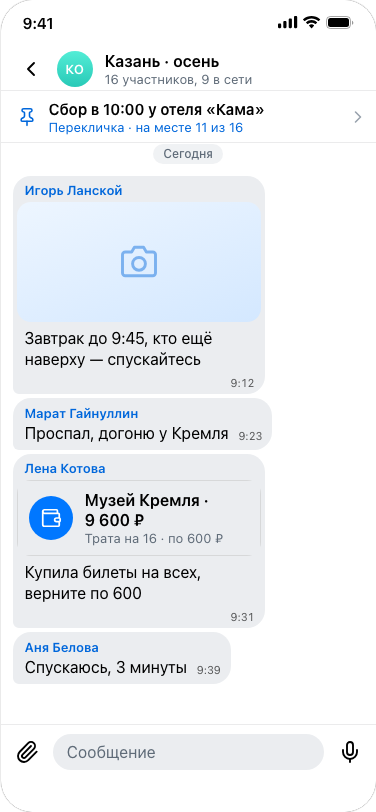
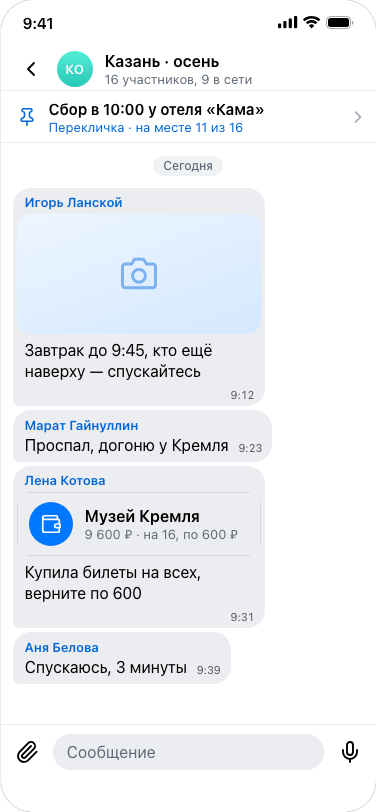
Сбор: поездки проще — без «Кто что везёт», расходы без фильтров

diff --git a/platform/concepts/sbor/screens/tripinfo.html b/platform/concepts/sbor/screens/tripinfo.html
@@ -1,1 +1,1 @@
-<div class="screen ui vk-light" id="scr-tripinfo"><header class="ui-nav"><button class="ui-icon-btn" data-back aria-label="Назад"><svg><use href="#i-chevron-left"/></svg></button><strong></strong><button class="ui-text-btn" data-toast="Открыт режим правки">Изменить</button></header><div class="ui-scroll"><div class="sb-head"><span class="ui-avatar is-large h4">КО</span><h1 class="ui-title">Казань · осень</h1><p class="ui-sub">9–11 октября · день 2 из 3 · 16 участников</p></div><section class="ui-sec"><div class="sb-acts"><button class="sb-act" data-back aria-label="Чат"><span><svg><use href="#i-message-circle"/></svg></span>Чат</button><button class="sb-act" data-go="rollcall" aria-label="Перекличка"><span><svg><use href="#i-list-checks"/></svg></span>Перекличка</button><button class="sb-act" data-go="program" aria-label="Программа"><span><svg><use href="#i-calendar-days"/></svg></span>Программа</button><button class="sb-act" data-go="album" aria-label="Альбом"><span><svg><use href="#i-images"/></svg></span>Альбом</button></div></section><section class="ui-sec"><div class="ui-group"><button class="ui-cell" data-go="rollcall"><svg><use href="#i-clock"/></svg><span class="ui-cell-text"><strong>Сбор в 10:00</strong><span>у отеля «Кама» · перенесён с 9:30</span></span><span class="ui-cell-end">11 из 16<svg><use href="#i-chevron-right"/></svg></span></button><button class="ui-cell" data-go="program"><svg><use href="#i-calendar-days"/></svg><span class="ui-cell-text"><strong>Программа</strong><span>Кремль в 10:30, катер в Свияжск в 15:00</span></span><span class="ui-cell-end">12 пунктов<svg><use href="#i-chevron-right"/></svg></span></button><button class="ui-cell" data-go="wifi"><svg><use href="#i-wifi"/></svg><span class="ui-cell-text"><strong>Wi‑Fi отеля</strong><span>отель «Кама» · добавил Игорь из QR</span></span><span class="ui-cell-end">Kama_Guest<svg><use href="#i-chevron-right"/></svg></span></button><button class="ui-cell" data-go="album"><svg><use href="#i-images"/></svg><span class="ui-cell-text"><strong>Альбом поездки</strong><span>Фильм пятницы готов, 3:42</span></span><span class="ui-cell-end">214 фото<svg><use href="#i-chevron-right"/></svg></span></button><button class="ui-cell" data-go="expenses"><svg><use href="#i-wallet"/></svg><span class="ui-cell-text"><strong>Расходы</strong><span>Вы должны Лене 1 240 ₽</span></span><span class="ui-cell-end">61 870 ₽<svg><use href="#i-chevron-right"/></svg></span></button><button class="ui-cell" data-go="pack"><svg><use href="#i-luggage"/></svg><span class="ui-cell-text"><strong>Кто что везёт</strong><span>Дождевики на вас</span></span><span class="ui-cell-end">3 из 6<svg><use href="#i-chevron-right"/></svg></span></button><button class="ui-cell" data-ask="faceid|docs|tripinfo"><svg><use href="#i-lock"/></svg><span class="ui-cell-text"><strong>Документы</strong><span>Брони, билеты, список группы</span></span><span class="ui-cell-end">7 файлов<svg><use href="#i-chevron-right"/></svg></span></button></div></section><section class="ui-sec"><div class="ui-group"><button class="ui-cell" data-ask="push|lockscreen|tripinfo"><svg><use href="#i-bell"/></svg><span class="ui-cell-text"><strong>Напоминать о сборах</strong><span>За 30 минут, с местом и временем</span></span><span class="ui-cell-end"><svg><use href="#i-chevron-right"/></svg></span></button><button class="ui-cell" data-activate="audio|lockscreen"><svg><use href="#i-headphones"/></svg><span class="ui-cell-text"><strong>Рассказы Рустама подряд</strong><span>6 голосовых · 23 минуты · Кремль, Свияжск, слобода</span></span><span class="ui-cell-end"><svg><use href="#i-chevron-right"/></svg></span></button><button class="ui-cell" data-go="invite"><svg><use href="#i-link"/></svg><span class="ui-cell-text"><strong>Ссылка-приглашение</strong><span>sbor.app/j/kzn-1009</span></span><span class="ui-cell-end">3 вступили<svg><use href="#i-chevron-right"/></svg></span></button></div></section><section class="ui-sec"><div class="ui-sec-head"><h2>Участники</h2><span class="ui-foot">16</span></div><div class="ui-list"><div class="ui-row"><span class="ui-avatar h2">НР</span><span class="ui-row-text"><strong>Ника Рябова</strong><span>создала поездку · номер 412</span></span></div><button class="ui-row" data-go="lena" aria-label="Лена Котова"><span class="ui-avatar h1">ЛК</span><span class="ui-row-text"><strong>Лена Котова</strong><span>номер 412 · в сети</span></span></button><div class="ui-row"><span class="ui-avatar h3">РХ</span><span class="ui-row-text"><strong>Рустам Хайруллин</strong><span>ведёт экскурсии · местный</span></span></div><div class="ui-row"><span class="ui-avatar h6">ИЛ</span><span class="ui-row-text"><strong>Игорь Ланской</strong><span>номер 408 · снимает фильм дня</span></span></div><button class="ui-row" data-go="chat" aria-label="Марат Гайнуллин"><span class="ui-avatar h2">МГ</span><span class="ui-row-text"><strong>Марат Гайнуллин</strong><span>номер 410 · был в 9:24</span></span></button><div class="ui-row"><span class="ui-avatar h2">ОП</span><span class="ui-row-text"><strong>Олег Пирогов</strong><span>номер 410 · в сети</span></span></div><button class="ui-row" data-go="rollcall" aria-label="Все 16 в перекличке"><span class="ui-lead is-round is-accent"><svg><use href="#i-list-checks"/></svg></span><span class="ui-row-text"><strong>Все 16 в перекличке</strong><span>Кто на месте к сбору и кто ещё в пути</span></span></button><button class="ui-row" data-go="contacts" aria-label="Добавить участника"><span class="ui-lead is-round is-accent"><svg><use href="#i-user-plus"/></svg></span><span class="ui-row-text"><strong>Добавить участника</strong><span>Из контактов или по ссылке</span></span></button></div></section></div><div class="home-ind"></div></div>
+<div class="screen ui vk-light" id="scr-tripinfo"><header class="ui-nav"><button class="ui-icon-btn" data-back aria-label="Назад"><svg><use href="#i-chevron-left"/></svg></button><strong></strong><button class="ui-text-btn" data-toast="Открыт режим правки">Изменить</button></header><div class="ui-scroll"><div class="sb-head"><span class="ui-avatar is-large h4">КО</span><h1 class="ui-title">Казань · осень</h1><p class="ui-sub">9–11 октября · день 2 из 3 · 16 участников</p></div><section class="ui-sec"><div class="sb-acts"><button class="sb-act" data-back aria-label="Чат"><span><svg><use href="#i-message-circle"/></svg></span>Чат</button><button class="sb-act" data-go="rollcall" aria-label="Перекличка"><span><svg><use href="#i-list-checks"/></svg></span>Перекличка</button><button class="sb-act" data-go="program" aria-label="Программа"><span><svg><use href="#i-calendar-days"/></svg></span>Программа</button><button class="sb-act" data-go="album" aria-label="Альбом"><span><svg><use href="#i-images"/></svg></span>Альбом</button></div></section><section class="ui-sec"><div class="ui-group"><button class="ui-cell" data-go="rollcall"><svg><use href="#i-clock"/></svg><span class="ui-cell-text"><strong>Сбор в 10:00</strong><span>у отеля «Кама» · перенесён с 9:30</span></span><span class="ui-cell-end">11 из 16<svg><use href="#i-chevron-right"/></svg></span></button><button class="ui-cell" data-go="program"><svg><use href="#i-calendar-days"/></svg><span class="ui-cell-text"><strong>Программа</strong><span>Кремль в 10:30, катер в Свияжск в 15:00</span></span><span class="ui-cell-end">12 пунктов<svg><use href="#i-chevron-right"/></svg></span></button><button class="ui-cell" data-go="wifi"><svg><use href="#i-wifi"/></svg><span class="ui-cell-text"><strong>Wi‑Fi отеля</strong><span>отель «Кама» · добавил Игорь из QR</span></span><span class="ui-cell-end">Kama_Guest<svg><use href="#i-chevron-right"/></svg></span></button><button class="ui-cell" data-go="album"><svg><use href="#i-images"/></svg><span class="ui-cell-text"><strong>Альбом поездки</strong><span>Фильм пятницы готов, 3:42</span></span><span class="ui-cell-end">214 фото<svg><use href="#i-chevron-right"/></svg></span></button><button class="ui-cell" data-go="expenses"><svg><use href="#i-wallet"/></svg><span class="ui-cell-text"><strong>Расходы</strong><span>Вы должны Лене 1 240 ₽</span></span><span class="ui-cell-end">61 870 ₽<svg><use href="#i-chevron-right"/></svg></span></button><button class="ui-cell" data-ask="faceid|docs|tripinfo"><svg><use href="#i-lock"/></svg><span class="ui-cell-text"><strong>Документы</strong><span>Брони, билеты, список группы</span></span><span class="ui-cell-end">7 файлов<svg><use href="#i-chevron-right"/></svg></span></button></div></section><section class="ui-sec"><div class="ui-group"><button class="ui-cell" data-ask="push|lockscreen|tripinfo"><svg><use href="#i-bell"/></svg><span class="ui-cell-text"><strong>Напоминать о сборах</strong><span>За 30 минут, с местом и временем</span></span><span class="ui-cell-end"><svg><use href="#i-chevron-right"/></svg></span></button><button class="ui-cell" data-activate="audio|lockscreen"><svg><use href="#i-headphones"/></svg><span class="ui-cell-text"><strong>Рассказы Рустама подряд</strong><span>6 голосовых · 23 минуты · Кремль, Свияжск, слобода</span></span><span class="ui-cell-end"><svg><use href="#i-chevron-right"/></svg></span></button><button class="ui-cell" data-go="invite"><svg><use href="#i-link"/></svg><span class="ui-cell-text"><strong>Ссылка-приглашение</strong><span>sbor.app/j/kzn-1009</span></span><span class="ui-cell-end">3 вступили<svg><use href="#i-chevron-right"/></svg></span></button></div></section><section class="ui-sec"><div class="ui-sec-head"><h2>Участники</h2><span class="ui-foot">16</span></div><div class="ui-list"><div class="ui-row"><span class="ui-avatar h2">НР</span><span class="ui-row-text"><strong>Ника Рябова</strong><span>создала поездку · номер 412</span></span></div><button class="ui-row" data-go="lena" aria-label="Лена Котова"><span class="ui-avatar h1">ЛК</span><span class="ui-row-text"><strong>Лена Котова</strong><span>номер 412 · в сети</span></span></button><div class="ui-row"><span class="ui-avatar h3">РХ</span><span class="ui-row-text"><strong>Рустам Хайруллин</strong><span>ведёт экскурсии · местный</span></span></div><div class="ui-row"><span class="ui-avatar h6">ИЛ</span><span class="ui-row-text"><strong>Игорь Ланской</strong><span>номер 408 · снимает фильм дня</span></span></div><button class="ui-row" data-go="chat" aria-label="Марат Гайнуллин"><span class="ui-avatar h2">МГ</span><span class="ui-row-text"><strong>Марат Гайнуллин</strong><span>номер 410 · был в 9:24</span></span></button><div class="ui-row"><span class="ui-avatar h2">ОП</span><span class="ui-row-text"><strong>Олег Пирогов</strong><span>номер 410 · в сети</span></span></div><button class="ui-row" data-go="rollcall" aria-label="Все 16 в перекличке"><span class="ui-lead is-round is-accent"><svg><use href="#i-list-checks"/></svg></span><span class="ui-row-text"><strong>Все 16 в перекличке</strong><span>Кто на месте к сбору и кто ещё в пути</span></span></button><button class="ui-row" data-go="contacts" aria-label="Добавить участника"><span class="ui-lead is-round is-accent"><svg><use href="#i-user-plus"/></svg></span><span class="ui-row-text"><strong>Добавить участника</strong><span>Из контактов или по ссылке</span></span></button></div></section></div><div class="home-ind"></div></div>

diff --git a/platform/concepts/sbor/screens/trips.html b/platform/concepts/sbor/screens/trips.html
@@ -1,1 +1,1 @@
-<div class="screen ui vk-light" id="scr-trips"><div class="ui-scroll is-root"><header class="ui-large"><h1>Поездки</h1><button class="ui-icon-btn" data-go="contacts" aria-label="Новая поездка"><svg><use href="#i-plus"/></svg></button></header><section class="ui-sec"><button class="sb-now" data-go="rollcall" data-primary aria-label="Сбор в 10:00: перекличка"><small>Казань · осень · день 2 из 3</small><strong>Сбор через 19 минут</strong><span>10:00 у отеля «Кама» · на месте 11 из 16</span><span class="sb-roll-bar" aria-hidden="true"><i class="is-on"></i><i class="is-on"></i><i class="is-on"></i><i class="is-on"></i><i class="is-on"></i><i class="is-on"></i><i class="is-on"></i><i class="is-on"></i><i class="is-on"></i><i class="is-on"></i><i class="is-on"></i><i></i><i></i><i></i><i></i><i></i></span></button><div class="sb-acts"><button class="sb-act" data-go="rollcall" aria-label="Перекличка"><span><svg><use href="#i-list-checks"/></svg></span>Перекличка</button><button class="sb-act" data-go="program" aria-label="Программа"><span><svg><use href="#i-calendar-days"/></svg></span>Программа</button><button class="sb-act" data-go="expenses" aria-label="Расходы"><span><svg><use href="#i-wallet"/></svg></span>Расходы</button><button class="sb-act" data-go="album" aria-label="Альбом"><span><svg><use href="#i-images"/></svg></span>Альбом</button></div></section><section class="ui-sec"><div class="ui-sec-head"><h2>Сегодня</h2><span class="ui-foot">суббота, 10 октября</span></div><div class="ui-list"><button class="ui-row is-now" data-go="rollcall" aria-label="Сбор у отеля"><span class="ui-lead">10:00</span><span class="ui-row-text"><strong>Сбор у отеля</strong><span>сейчас · перенесён с 9:30 · Ника, вчера в 23:48</span></span></button><div class="ui-row"><span class="ui-lead">10:30</span><span class="ui-row-text"><strong>Кремль и Кул-Шариф</strong><span>ведёт Рустам · вход через Спасскую башню</span></span></div><div class="ui-row"><span class="ui-lead">13:30</span><span class="ui-row-text"><strong>Обед на Петербургской</strong><span>по меню, около 900 ₽</span></span></div><div class="ui-row"><span class="ui-lead">15:00</span><span class="ui-row-text"><strong>Катер в Свияжск</strong><span>Речной порт, причал 3 · 16 билетов</span></span></div><div class="ui-row"><span class="ui-lead">20:00</span><span class="ui-row-text"><strong>Ужин и фото дня</strong><span>номер 412 у Ники</span></span></div></div></section><section class="ui-sec"><div class="ui-sec-head"><h2>В поездке</h2></div><div class="ui-list"><button class="ui-row" data-go="expenses" aria-label="Вы должны Лене 1 240 ₽"><span class="ui-lead is-round is-accent"><svg><use href="#i-wallet"/></svg></span><span class="ui-row-text"><strong>Вы должны Лене 1 240 ₽</strong><span>Всего 61 870 ₽ · по 3 867 ₽ с человека · вам должны двое</span></span></button><button class="ui-row" data-go="pack" aria-label="Кто что везёт · 3 из 6"><span class="ui-lead is-round is-accent"><svg><use href="#i-luggage"/></svg></span><span class="ui-row-text"><strong>Кто что везёт · 3 из 6</strong><span>Дождевики на вас · термосы никто не взял</span></span></button><button class="ui-row" data-go="wifi" aria-label="Wi‑Fi Kama_Guest"><span class="ui-lead is-round"><svg><use href="#i-wifi"/></svg></span><span class="ui-row-text"><strong>Wi‑Fi Kama_Guest</strong><span>подключились 12 из 16</span></span></button><button class="ui-row" data-go="docs" aria-label="Документы"><span class="ui-lead is-round"><svg><use href="#i-lock"/></svg></span><span class="ui-row-text"><strong>Документы</strong><span>Брони, билеты, список группы · 7 файлов</span></span></button></div></section><section class="ui-sec"><div class="ui-sec-head"><h2>Скоро</h2></div><div class="ui-list"><button class="ui-row" data-go="lena" aria-label="Псков · ноябрь"><span class="ui-avatar h1">ПН</span><span class="ui-row-text"><strong>Псков · ноябрь</strong><span>Лена собирает · даты выбирают опросом, ответили 7 из 9</span></span><span class="ui-row-end"><span class="ui-badge is-blue">через 27 дней</span></span></button></div></section><section class="ui-sec"><div class="ui-sec-head"><h2>Прошедшие</h2><span class="ui-foot">3</span></div><div class="ui-list"><div class="ui-row"><span class="ui-lead is-round"><svg><use href="#i-route"/></svg></span><span class="ui-row-text"><strong>Алтай · 14–24 августа</strong><span>11 человек · фильм поездки 12:40 · 1 312 фото</span></span></div><div class="ui-row"><span class="ui-lead is-round"><svg><use href="#i-route"/></svg></span><span class="ui-row-text"><strong>Калининград · 1–4 мая</strong><span>6 человек · фильм 5:18 · 402 фото</span></span></div><div class="ui-row"><span class="ui-lead is-round"><svg><use href="#i-route"/></svg></span><span class="ui-row-text"><strong>Выборг · 7–8 марта</strong><span>4 человека · 96 фото, фильм не собирали</span></span></div></div></section></div><nav class="ui-tabs tabbar" aria-label="Основная навигация"><div class="ui-tabrow"><button class="ui-tab tab" data-go="contacts"><svg><use href="#i-circle-user"/></svg><span>Контакты</span></button><button class="ui-tab tab" data-go="calls"><svg><use href="#i-phone"/></svg><span>Звонки</span></button><button class="ui-tab tab" data-go="chats"><svg><use href="#i-message-circle"/></svg><span>Чаты</span></button><button class="ui-tab tab is-on" aria-current="page" data-go="trips"><svg><use href="#i-route"/></svg><span>Поездки</span></button><button class="ui-tab tab" data-go="settings"><svg><use href="#i-settings"/></svg><span>Настройки</span></button></div></nav><div class="home-ind"></div></div>
+<div class="screen ui vk-light" id="scr-trips"><div class="ui-scroll is-root"><header class="ui-large"><h1>Поездки</h1><button class="ui-icon-btn" data-go="contacts" aria-label="Новая поездка"><svg><use href="#i-plus"/></svg></button></header><section class="ui-sec"><button class="sb-now" data-go="rollcall" data-primary aria-label="Сбор в 10:00: перекличка"><small>Казань · осень · день 2 из 3</small><strong>Сбор через 19 минут</strong><span>10:00 у отеля «Кама» · на месте 11 из 16</span><span class="sb-roll-bar" aria-hidden="true"><i class="is-on"></i><i class="is-on"></i><i class="is-on"></i><i class="is-on"></i><i class="is-on"></i><i class="is-on"></i><i class="is-on"></i><i class="is-on"></i><i class="is-on"></i><i class="is-on"></i><i class="is-on"></i><i></i><i></i><i></i><i></i><i></i></span></button></section><section class="ui-sec"><div class="ui-sec-head"><h2>Сегодня</h2><span class="ui-foot">суббота, 10 октября</span></div><div class="ui-list"><button class="ui-row is-now" data-go="rollcall" aria-label="Сбор у отеля"><span class="ui-lead">10:00</span><span class="ui-row-text"><strong>Сбор у отеля</strong><span>сейчас · перенесён с 9:30 · Ника, вчера в 23:48</span></span></button><div class="ui-row"><span class="ui-lead">10:30</span><span class="ui-row-text"><strong>Кремль и Кул-Шариф</strong><span>ведёт Рустам · вход через Спасскую башню</span></span></div><div class="ui-row"><span class="ui-lead">13:30</span><span class="ui-row-text"><strong>Обед на Петербургской</strong><span>по меню, около 900 ₽</span></span></div><div class="ui-row"><span class="ui-lead">15:00</span><span class="ui-row-text"><strong>Катер в Свияжск</strong><span>Речной порт, причал 3 · 16 билетов</span></span></div><div class="ui-row"><span class="ui-lead">20:00</span><span class="ui-row-text"><strong>Ужин и фото дня</strong><span>номер 412 у Ники</span></span></div></div></section><section class="ui-sec"><div class="ui-sec-head"><h2>Скоро</h2></div><div class="ui-list"><button class="ui-row" data-go="lena" aria-label="Псков · ноябрь"><span class="ui-avatar h1">ПН</span><span class="ui-row-text"><strong>Псков · ноябрь</strong><span>Лена собирает · даты выбирают опросом, ответили 7 из 9</span></span><span class="ui-row-end"><span class="ui-badge is-blue">через 27 дней</span></span></button></div></section><section class="ui-sec"><div class="ui-sec-head"><h2>Прошедшие</h2><span class="ui-foot">3</span></div><div class="ui-list"><div class="ui-row"><span class="ui-lead is-round"><svg><use href="#i-route"/></svg></span><span class="ui-row-text"><strong>Алтай · 14–24 августа</strong><span>11 человек · фильм поездки 12:40 · 1 312 фото</span></span></div><div class="ui-row"><span class="ui-lead is-round"><svg><use href="#i-route"/></svg></span><span class="ui-row-text"><strong>Калининград · 1–4 мая</strong><span>6 человек · фильм 5:18 · 402 фото</span></span></div><div class="ui-row"><span class="ui-lead is-round"><svg><use href="#i-route"/></svg></span><span class="ui-row-text"><strong>Выборг · 7–8 марта</strong><span>4 человека · 96 фото, фильм не собирали</span></span></div></div></section></div><nav class="ui-tabs tabbar" aria-label="Основная навигация"><div class="ui-tabrow"><button class="ui-tab tab" data-go="contacts"><svg><use href="#i-circle-user"/></svg><span>Контакты</span></button><button class="ui-tab tab" data-go="calls"><svg><use href="#i-phone"/></svg><span>Звонки</span></button><button class="ui-tab tab" data-go="chats"><svg><use href="#i-message-circle"/></svg><span>Чаты</span></button><button class="ui-tab tab is-on" aria-current="page" data-go="trips"><svg><use href="#i-route"/></svg><span>Поездки</span></button><button class="ui-tab tab" data-go="settings"><svg><use href="#i-settings"/></svg><span>Настройки</span></button></div></nav><div class="home-ind"></div></div>

diff --git a/platform/concepts/sbor/screens/trip.html b/platform/concepts/sbor/screens/trip.html
@@ -1,1 +1,1 @@
-<div class="screen ui vk-light" id="scr-trip"><header class="ui-nav ui-chat-nav"><button class="ui-icon-btn" data-back aria-label="Назад"><svg><use href="#i-chevron-left"/></svg></button><button class="ui-chat-who tap" data-go="tripinfo" aria-label="Сведения: Казань · осень"><span class="ui-chat-face is-initial h4">КО</span><span class="ui-chat-text"><strong>Казань · осень</strong><span>16 участников, 9 в сети</span></span></button><span></span></header><button class="sb-pin" data-go="rollcall" aria-label="Перекличка: сбор в 10:00"><svg><use href="#i-pin"/></svg><span><strong>Сбор в 10:00 у отеля «Кама»</strong><span>Перекличка · на месте 11 из 16</span></span><svg><use href="#i-chevron-right"/></svg></button><div class="ui-scroll"><div class="ui-chat"><div class="ui-bubble is-in has-attach"><span class="ui-bubble-from">Игорь Ланской</span><span class="ui-bubble-media"><button class="sb-net" data-go="wifi"><span class="sb-net-ico"><svg><use href="#i-wifi"/></svg></span><span><strong>Kama_Guest</strong><span>Wi‑Fi отеля из QR · вчера</span></span></button></span><span class="ui-bubble-meta">22:14</span></div><p class="sb-sys">Ника перенесла сбор: 9:30 → 10:00</p><p class="ui-day">Сегодня</p><div class="ui-bubble is-in has-attach"><span class="ui-bubble-from">Игорь Ланской</span><span class="ui-bubble-media"><span class="sb-photo ph"></span></span><span class="ui-bubble-text">Завтрак до 9:45, кто ещё наверху — спускайтесь</span><span class="ui-bubble-meta">9:12</span></div><div class="ui-bubble is-in"><span class="ui-bubble-from">Марат Гайнуллин</span><span class="ui-bubble-text">Проспал, догоню у Кремля</span><span class="ui-bubble-meta">9:23</span></div><div class="ui-bubble is-in has-attach"><span class="ui-bubble-from">Лена Котова</span><span class="ui-bubble-media"><button class="sb-net" data-go="expenses"><span class="sb-net-ico"><svg><use href="#i-wallet"/></svg></span><span><strong>Музей Кремля · 9 600 ₽</strong><span>Трата на 16 · по 600 ₽</span></span></button></span><span class="ui-bubble-text">Купила билеты на всех, верните по 600</span><span class="ui-bubble-meta">9:31</span></div><div class="ui-bubble is-in"><span class="ui-bubble-from">Аня Белова</span><span class="ui-bubble-text">Спускаюсь, 3 минуты</span><span class="ui-bubble-meta">9:39</span></div><div class="sb-shared perm-hidden" data-show-granted="shareext"><div class="ui-bubble is-out has-attach"><span class="ui-bubble-media"><span class="sb-place"><span class="sb-place-ico"><svg><use href="#i-utensils"/></svg></span><span><strong>Тюбетей</strong><span>Баумана, 64 · татарская кухня · до 23:00</span></span></span></span><span class="ui-bubble-text">На обед сюда?</span><span class="ui-bubble-meta">9:41<svg><use href="#i-check"/></svg></span></div></div></div></div><div class="perm-hidden ui-denied" data-show-denied="photos"><svg><use href="#i-images"/></svg><strong>Нет доступа к фото</strong><span>Разрешите доступ в Настройках</span><button class="ui-denied-btn" data-toast="Откроются Настройки iOS">Открыть Настройки</button></div><div class="perm-hidden ui-denied" data-show-denied="mic"><svg><use href="#i-mic"/></svg><strong>Нет доступа к микрофону</strong><span>Разрешите доступ в Настройках</span><button class="ui-denied-btn" data-toast="Откроются Настройки iOS">Открыть Настройки</button></div><div class="ui-composer has-mic"><button class="ui-icon-btn" data-ask="photos|attach|trip" aria-label="Вложение"><svg><use href="#i-paperclip"/></svg></button><input class="ui-composer-field" placeholder="Сообщение" aria-label="Сообщение"/><span class="ui-composer-mic"><button class="ui-icon-btn" data-ask="mic|record|trip" aria-label="Записать голосовое"><svg><use href="#i-mic"/></svg></button></span><span class="ui-composer-send"><button class="ui-icon-btn" data-toast="Отправлено" aria-label="Отправить"><svg><use href="#i-send"/></svg></button></span></div><div class="home-ind"></div></div>
+<div class="screen ui vk-light" id="scr-trip"><header class="ui-nav ui-chat-nav"><button class="ui-icon-btn" data-back aria-label="Назад"><svg><use href="#i-chevron-left"/></svg></button><button class="ui-chat-who tap" data-go="tripinfo" aria-label="Сведения: Казань · осень"><span class="ui-chat-face is-initial h4">КО</span><span class="ui-chat-text"><strong>Казань · осень</strong><span>16 участников, 9 в сети</span></span></button><span></span></header><button class="sb-pin" data-go="rollcall" aria-label="Перекличка: сбор в 10:00"><svg><use href="#i-pin"/></svg><span><strong>Сбор в 10:00 у отеля «Кама»</strong><span>Перекличка · на месте 11 из 16</span></span><svg><use href="#i-chevron-right"/></svg></button><div class="ui-scroll"><div class="ui-chat"><div class="ui-bubble is-in has-attach"><span class="ui-bubble-from">Игорь Ланской</span><span class="ui-bubble-media"><button class="sb-net" data-go="wifi"><span class="sb-net-ico"><svg><use href="#i-wifi"/></svg></span><span><strong>Kama_Guest</strong><span>Wi‑Fi отеля из QR · вчера</span></span></button></span><span class="ui-bubble-meta">22:14</span></div><p class="sb-sys">Ника перенесла сбор: 9:30 → 10:00</p><p class="ui-day">Сегодня</p><div class="ui-bubble is-in has-attach"><span class="ui-bubble-from">Игорь Ланской</span><span class="ui-bubble-media"><span class="sb-photo ph"></span></span><span class="ui-bubble-text">Завтрак до 9:45, кто ещё наверху — спускайтесь</span><span class="ui-bubble-meta">9:12</span></div><div class="ui-bubble is-in"><span class="ui-bubble-from">Марат Гайнуллин</span><span class="ui-bubble-text">Проспал, догоню у Кремля</span><span class="ui-bubble-meta">9:23</span></div><div class="ui-bubble is-in has-attach"><span class="ui-bubble-from">Лена Котова</span><span class="ui-bubble-media"><button class="sb-net" data-go="expenses"><span class="sb-net-ico"><svg><use href="#i-wallet"/></svg></span><span><strong>Музей Кремля</strong><span>9 600 ₽ · на 16, по 600 ₽</span></span></button></span><span class="ui-bubble-text">Купила билеты на всех, верните по 600</span><span class="ui-bubble-meta">9:31</span></div><div class="ui-bubble is-in"><span class="ui-bubble-from">Аня Белова</span><span class="ui-bubble-text">Спускаюсь, 3 минуты</span><span class="ui-bubble-meta">9:39</span></div><div class="sb-shared perm-hidden" data-show-granted="shareext"><div class="ui-bubble is-out has-attach"><span class="ui-bubble-media"><span class="sb-place"><span class="sb-place-ico"><svg><use href="#i-utensils"/></svg></span><span><strong>Тюбетей</strong><span>Баумана, 64 · татарская кухня · до 23:00</span></span></span></span><span class="ui-bubble-text">На обед сюда?</span><span class="ui-bubble-meta">9:41<svg><use href="#i-check"/></svg></span></div></div></div></div><div class="perm-hidden ui-denied" data-show-denied="photos"><svg><use href="#i-images"/></svg><strong>Нет доступа к фото</strong><span>Разрешите доступ в Настройках</span><button class="ui-denied-btn" data-toast="Откроются Настройки iOS">Открыть Настройки</button></div><div class="perm-hidden ui-denied" data-show-denied="mic"><svg><use href="#i-mic"/></svg><strong>Нет доступа к микрофону</strong><span>Разрешите доступ в Настройках</span><button class="ui-denied-btn" data-toast="Откроются Настройки iOS">Открыть Настройки</button></div><div class="ui-composer has-mic"><button class="ui-icon-btn" data-ask="photos|attach|trip" aria-label="Вложение"><svg><use href="#i-paperclip"/></svg></button><input class="ui-composer-field" placeholder="Сообщение" aria-label="Сообщение"/><span class="ui-composer-mic"><button class="ui-icon-btn" data-ask="mic|record|trip" aria-label="Записать голосовое"><svg><use href="#i-mic"/></svg></button></span><span class="ui-composer-send"><button class="ui-icon-btn" data-toast="Отправлено" aria-label="Отправить"><svg><use href="#i-send"/></svg></button></span></div><div class="home-ind"></div></div>

diff --git a/platform/concepts/sbor/screens/expenses.html b/platform/concepts/sbor/screens/expenses.html
@@ -1,1 +1,1 @@
-<div class="screen ui vk-light" id="scr-expenses"><header class="ui-nav"><button class="ui-icon-btn" data-back aria-label="Назад"><svg><use href="#i-chevron-left"/></svg></button><strong>Расходы</strong><button class="ui-icon-btn" data-menu="Снять чек>camera|Вручную=Новая трата: сумма, кто платил, на кого" aria-label="Добавить трату"><svg><use href="#i-plus"/></svg></button></header><div class="ui-scroll"><section class="ui-sec"><div class="sb-money"><small>Казань · осень · 11 чеков</small><strong>61 870 ₽</strong><span>по 3 867 ₽ с человека · делим на 16</span></div></section><section class="ui-sec"><div class="ui-sec-head"><h2>Вы должны</h2></div><div class="ui-list"><div class="ui-row" data-primary><span class="ui-avatar h1">ЛК</span><span class="ui-row-text"><strong>Лене · 1 240 ₽</strong><span>музей и такси</span></span><button class="ui-row-end is-value is-action" data-toast="Отмечено: вы вернули Лене 1 240 ₽" aria-label="Рассчитаться: Лене">Рассчитаться</button></div></div></section><section class="ui-sec"><div class="ui-sec-head"><h2>Вам должны</h2></div><div class="ui-list"><div class="ui-row"><span class="ui-avatar h2">МГ</span><span class="ui-row-text"><strong>Марат · 610 ₽</strong><span>за катер</span></span><button class="ui-row-end is-value is-action" data-toast="Марат получит напоминание в личном чате" aria-label="Напомнить: Марат">Напомнить</button></div><div class="ui-row"><span class="ui-avatar h5">СП</span><span class="ui-row-text"><strong>Света · 420 ₽</strong><span>за ужин в пятницу</span></span><button class="ui-row-end is-value is-action" data-toast="Света получит напоминание в личном чате" aria-label="Напомнить: Света">Напомнить</button></div></div></section><section class="ui-sec"><div class="ui-seg"><button class="is-on" aria-pressed="true" data-filter="all">Все</button><button aria-pressed="false" data-filter="transport">Дорога</button><button aria-pressed="false" data-filter="food">Еда</button><button aria-pressed="false" data-filter="other">Прочее</button></div></section><section class="ui-sec"><div class="ui-sec-head"><h2>Траты</h2><span class="ui-foot">6</span></div><div class="ui-list"><div class="ui-row" data-tags="transport"><span class="ui-lead is-round"><svg><use href="#i-ship"/></svg></span><span class="ui-row-text"><strong>Катер в Свияжск · 22 400 ₽</strong><span>платил Рустам · на 16 · вчера</span></span></div><div class="ui-row" data-tags="other"><span class="ui-lead is-round"><svg><use href="#i-landmark"/></svg></span><span class="ui-row-text"><strong>Музей Кремля · 9 600 ₽</strong><span>платила Лена · на 16 · сегодня</span></span></div><div class="ui-row" data-tags="food"><span class="ui-lead is-round"><svg><use href="#i-utensils"/></svg></span><span class="ui-row-text"><strong>Ужин «Чак-чак у Гузель» · 4 800 ₽</strong><span>платил Ника · предоплата · на 16</span></span></div><div class="ui-row" data-tags="transport"><span class="ui-lead is-round"><svg><use href="#i-car"/></svg></span><span class="ui-row-text"><strong>Такси с вокзала · 2 140 ₽</strong><span>платил Олег · на 8 · две машины</span></span></div><div class="ui-row" data-tags="food"><span class="ui-lead is-round"><svg><use href="#i-utensils"/></svg></span><span class="ui-row-text"><strong>Перекус на Баумана · 1 380 ₽</strong><span>платил Игорь · на 6 · чек снят</span></span></div><div class="ui-row" data-tags="other"><span class="ui-lead is-round"><svg><use href="#i-bed"/></svg></span><span class="ui-row-text"><strong>Доплата за номер 412 · 1 900 ₽</strong><span>платил Ника · на 2 · поздний выезд</span></span></div></div></section></div><div class="home-ind"></div></div>
+<div class="screen ui vk-light" id="scr-expenses"><header class="ui-nav"><button class="ui-icon-btn" data-back aria-label="Назад"><svg><use href="#i-chevron-left"/></svg></button><strong>Расходы</strong><button class="ui-icon-btn" data-menu="Снять чек>camera|Вручную=Новая трата: сумма, кто платил, на кого" aria-label="Добавить трату"><svg><use href="#i-plus"/></svg></button></header><div class="ui-scroll"><section class="ui-sec"><div class="sb-money"><small>Казань · осень · 11 чеков</small><strong>61 870 ₽</strong><span>по 3 867 ₽ с человека · делим на 16</span></div></section><section class="ui-sec"><div class="ui-sec-head"><h2>Вы должны</h2></div><div class="ui-list"><div class="ui-row" data-primary><span class="ui-avatar h1">ЛК</span><span class="ui-row-text"><strong>Лене · 1 240 ₽</strong><span>музей и такси</span></span><button class="ui-row-end is-value is-action" data-toast="Отмечено: вы вернули Лене 1 240 ₽" aria-label="Рассчитаться: Лене">Рассчитаться</button></div></div></section><section class="ui-sec"><div class="ui-sec-head"><h2>Траты</h2><span class="ui-foot">6</span></div><div class="ui-list"><div class="ui-row"><span class="ui-lead is-round"><svg><use href="#i-ship"/></svg></span><span class="ui-row-text"><strong>Катер в Свияжск · 22 400 ₽</strong><span>платил Рустам · на 16 · вчера</span></span></div><div class="ui-row"><span class="ui-lead is-round"><svg><use href="#i-landmark"/></svg></span><span class="ui-row-text"><strong>Музей Кремля · 9 600 ₽</strong><span>платила Лена · на 16 · сегодня</span></span></div><div class="ui-row"><span class="ui-lead is-round"><svg><use href="#i-utensils"/></svg></span><span class="ui-row-text"><strong>Ужин «Чак-чак у Гузель» · 4 800 ₽</strong><span>платил Ника · предоплата · на 16</span></span></div><div class="ui-row"><span class="ui-lead is-round"><svg><use href="#i-car"/></svg></span><span class="ui-row-text"><strong>Такси с вокзала · 2 140 ₽</strong><span>платил Олег · на 8 · две машины</span></span></div><div class="ui-row"><span class="ui-lead is-round"><svg><use href="#i-utensils"/></svg></span><span class="ui-row-text"><strong>Перекус на Баумана · 1 380 ₽</strong><span>платил Игорь · на 6 · чек снят</span></span></div><div class="ui-row"><span class="ui-lead is-round"><svg><use href="#i-bed"/></svg></span><span class="ui-row-text"><strong>Доплата за номер 412 · 1 900 ₽</strong><span>платил Ника · на 2 · поздний выезд</span></span></div></div></section></div><div class="home-ind"></div></div>

diff --git a/platform/concepts/sbor/styles.css b/platform/concepts/sbor/styles.css
@@ -251,7 +251,6 @@
 .sb-now .sb-roll-bar { margin-top:8px; }
 .sb-now .sb-roll-bar i { background:rgba(255,255,255,.32); }
 .sb-now .sb-roll-bar i.is-on { background:#fff; }
-.sb-now + .sb-acts { margin-top:12px; }
 /* Сводка кошелька поездки */
 .sb-money { display:flex; flex-direction:column; gap:2px; padding:0 16px; }
 .sb-money small { font:400 13px/16px var(--ui-face); color:var(--ui-text-2); }

diff --git a/platform/concepts/sbor/docs/02-architecture.md b/platform/concepts/sbor/docs/02-architecture.md
@@ -64,12 +64,12 @@
 Чаты (chats) — tab (root) · открывается: «Продолжить без аккаунта», «Войти» …, «Подбирать по интересам» (tracking) · fetch
     ├─ Чат поездки (trip) — push · открывается: «Диалог: Казань · осень», «Диалог: Алтай · август» …, «Отправить 2», «Отправить сеть Kama_Guest в чат» …, «Отправить в «Сбор»: Казань · осень» (shareext) … · photos, mic
     │   ├─ Сведения о поездке (tripinfo) — push · открывается: «Сведения: Казань · осень» · push, faceid, audio
-    │   │   ├─ Перекличка (rollcall) — push · открывается: «Сбор в 10:00: перекличка», «Перекличка» … · remotenotif, wifiinfo
-    │   │   ├─ Wi‑Fi отеля (wifi) — push · открывается: «Wi‑Fi Kama_Guest», «Kama_Guest» … · hotspot
+    │   │   ├─ Перекличка (rollcall) — push · открывается: «Сбор в 10:00: перекличка», «Сбор у отеля» … · remotenotif, wifiinfo
+    │   │   ├─ Wi‑Fi отеля (wifi) — push · открывается: «Kama_Guest», «Wi‑Fi отеля» · hotspot
     │   │   ├─ Программа (program) — push · открывается: «Программа» · calendar
     │   │   │   └─ «Поделиться» в Картах (share) — системная поверхность · открывается: «Место из Карт» · shareext
     │   │   ├─ Альбом поездки (album) — push · открывается: «Альбом», «Альбом поездки» · bgtask, processing
-    │   │   ├─ Документы (docs) — push · открывается: «Документы», «Документы» (faceid)
+    │   │   ├─ Документы (docs) — push · открывается: «Документы» (faceid)
     │   │   ├─ Ссылка-приглашение (invite) — push · открывается: «Ссылка-приглашение», «Пригласить ссылкой» …
     │   │   │   └─ Сообщения iOS (sms) — системная поверхность · открывается: «Отправить в Сообщения» · associateddomains
     │   │   │       └─ Приглашение (join) — modal · открывается: «Открыть ссылку sbor.app/j/kzn-1009» (associateddomains)
@@ -85,8 +85,7 @@
     └─ Реклама (ads) — modal · открывается: «Диалог: Катер до Свияжска», «Реклама» · tracking
 
 Поездки (trips) — tab (root) · открывается: вкладка таб-бара
-    ├─ Кто что везёт (pack) — push · открывается: «Кто что везёт · 3 из 6», «Кто что везёт»
-    └─ Расходы (expenses) — push · открывается: «Расходы», «Вы должны Лене 1 240 ₽» …
+    └─ Расходы (expenses) — push · открывается: «Музей Кремля», «Расходы»
 
 Звонки (calls) — tab (root) · открывается: «Недавние звонки»
 
@@ -119,7 +118,6 @@
 | `program` | Программа | push | calendar |
 | `album` | Альбом поездки | push | bgtask (activate), processing (activate) |
 | `docs` | Документы | push | — |
-| `pack` | Кто что везёт | push | — |
 | `expenses` | Расходы | push | — |
 | `invite` | Ссылка-приглашение | push | — |
 | `sms` | Сообщения iOS | системная поверхность | associateddomains (activate) |
@@ -166,13 +164,7 @@
 | `chats` | «Диалог: Избранное» | `saved` | — | переход |
 | `chats` | «Диалог: Катер до Свияжска» | `ads` | — | переход |
 | `trips` | «Новая поездка» | `contacts` | — | переход |
-| `trips` | «Сбор в 10:00: перекличка», «Перекличка» … | `rollcall` | — | переход |
-| `trips` | «Программа» | `program` | — | переход |
-| `trips` | «Расходы», «Вы должны Лене 1 240 ₽» | `expenses` | — | переход |
-| `trips` | «Альбом» | `album` | — | переход |
-| `trips` | «Кто что везёт · 3 из 6» | `pack` | — | переход |
-| `trips` | «Wi‑Fi Kama_Guest» | `wifi` | — | переход |
-| `trips` | «Документы» | `docs` | — | переход |
+| `trips` | «Сбор в 10:00: перекличка», «Сбор у отеля» | `rollcall` | — | переход |
 | `trips` | «Псков · ноябрь» | `lena` | — | переход |
 | `calls` | «Новый звонок» | `contacts` | — | переход |
 | `calls` | «Марат Гайнуллин», «Рустам Хайруллин» | `chat` | — | переход |
@@ -190,7 +182,7 @@
 | `trip` | «Сведения: Казань · осень» | `tripinfo` | — | переход |
 | `trip` | «Перекличка: сбор в 10:00» | `rollcall` | — | переход |
 | `trip` | «Kama_Guest» | `wifi` | — | переход |
-| `trip` | «Музей Кремля · 9 600 ₽» | `expenses` | — | переход |
+| `trip` | «Музей Кремля» | `expenses` | — | переход |
 | `trip` | «Вложение» | `attach` | `NSPhotoLibraryUsageDescription` | доступ разрешён |
 | `trip` | «Вложение» | `trip` | `NSPhotoLibraryUsageDescription` | отказ → fallback |
 | `trip` | «Записать голосовое» | `record` | `NSMicrophoneUsageDescription` | доступ разрешён |
@@ -201,7 +193,6 @@
 | `tripinfo` | «Альбом», «Альбом поездки» | `album` | — | переход |
 | `tripinfo` | «Wi‑Fi отеля» | `wifi` | — | переход |
 | `tripinfo` | «Расходы» | `expenses` | — | переход |
-| `tripinfo` | «Кто что везёт» | `pack` | — | переход |
 | `tripinfo` | «Документы» | `docs` | `NSFaceIDUsageDescription` | доступ разрешён |
 | `tripinfo` | «Документы» | `tripinfo` | `NSFaceIDUsageDescription` | отказ → fallback |
 | `tripinfo` | «Напоминать о сборах» | `lockscreen` | `aps-environment` | доступ разрешён |
@@ -226,7 +217,6 @@
 | `album` | «Собрать фильм субботы ночью» | `album` | `UIBackgroundModes: processing` | entitlement, без alert |
 | `docs` | «Назад» | `tripinfo` | — | возврат по IA |
 | `docs` | «Сканировать камерой» | `camera` | — | переход |
-| `pack` | «Назад» | `trips` | — | возврат по IA |
 | `expenses` | «Назад» | `trips` | — | возврат по IA |
 | `expenses` | «Снять чек» | `camera` | — | переход |
 | `invite` | «Назад» | `tripinfo` | — | возврат по IA |
@@ -319,15 +309,7 @@
 | `chats` | Настройки | вкладка | переключает вкладку таб-бара | Настройки (settings) | — | — |
 | `trips` | Новая поездка | элемент экрана | открывает экран | Контакты (contacts) | — | — |
 | `trips` | Сбор в 10:00: перекличка | элемент экрана | открывает экран | Перекличка (rollcall) | — | — |
-| `trips` | Перекличка | элемент экрана | открывает экран | Перекличка (rollcall) | — | — |
-| `trips` | Программа | элемент экрана | открывает экран | Программа (program) | — | — |
-| `trips` | Расходы | элемент экрана | открывает экран | Расходы (expenses) | — | — |
-| `trips` | Альбом | элемент экрана | открывает экран | Альбом поездки (album) | — | — |
 | `trips` | Сбор у отеля | элемент экрана | открывает экран | Перекличка (rollcall) | — | — |
-| `trips` | Вы должны Лене 1 240 ₽ | элемент экрана | открывает экран | Расходы (expenses) | — | — |
-| `trips` | Кто что везёт · 3 из 6 | элемент экрана | открывает экран | Кто что везёт (pack) | — | — |
-| `trips` | Wi‑Fi Kama_Guest | элемент экрана | открывает экран | Wi‑Fi отеля (wifi) | — | — |
-| `trips` | Документы | элемент экрана | открывает экран | Документы (docs) | — | — |
 | `trips` | Псков · ноябрь | элемент экрана | открывает экран | Чат с Леной (lena) | — | — |
 | `trips` | Контакты | вкладка | переключает вкладку таб-бара | Контакты (contacts) | — | — |
 | `trips` | Звонки | вкладка | переключает вкладку таб-бара | Звонки (calls) | — | — |
@@ -373,7 +355,7 @@
 | `trip` | Сведения: Казань · осень | элемент экрана | открывает экран | Сведения о поездке (tripinfo) | — | — |
 | `trip` | Перекличка: сбор в 10:00 | элемент экрана | открывает экран | Перекличка (rollcall) | — | — |
 | `trip` | Kama_Guest | элемент экрана | открывает экран | Wi‑Fi отеля (wifi) | — | — |
-| `trip` | Музей Кремля · 9 600 ₽ | элемент экрана | открывает экран | Расходы (expenses) | — | — |
+| `trip` | Музей Кремля | элемент экрана | открывает экран | Расходы (expenses) | — | — |
 | `trip` | Открыть Настройки | элемент экрана | показывает подтверждение «Откроются Настройки iOS» | остаётся на экране | — | — |
 | `trip` | Открыть Настройки | элемент экрана | показывает подтверждение «Откроются Настройки iOS» | остаётся на экране | — | — |
 | `trip` | Вложение | элемент экрана | спрашивает доступ photos | Вложение (attach) | Чат поездки (trip) | `NSPhotoLibraryUsageDescription` |
@@ -390,7 +372,6 @@
 | `tripinfo` | Wi‑Fi отеля | элемент экрана | открывает экран | Wi‑Fi отеля (wifi) | — | — |
 | `tripinfo` | Альбом поездки | элемент экрана | открывает экран | Альбом поездки (album) | — | — |
 | `tripinfo` | Расходы | элемент экрана | открывает экран | Расходы (expenses) | — | — |
-| `tripinfo` | Кто что везёт | элемент экрана | открывает экран | Кто что везёт (pack) | — | — |
 | `tripinfo` | Документы | элемент экрана | спрашивает доступ faceid | Документы (docs) | Сведения о поездке (tripinfo) | `NSFaceIDUsageDescription` |
 | `tripinfo` | Напоминать о сборах | элемент экрана | спрашивает доступ push | Экран блокировки (lockscreen) | Сведения о поездке (tripinfo) | `aps-environment` |
 | `tripinfo` | Рассказы Рустама подряд | элемент экрана | включает entitlement audio, системного alert нет | Экран блокировки (lockscreen) | — | `UIBackgroundModes: audio` |
@@ -444,14 +425,9 @@
 | `docs` | Катер в Свияжск | элемент экрана | показывает подтверждение «Катер в Свияжск открыт» | остаётся на экране | — | — |
 | `docs` | Паспорт Ники — скан | элемент экрана | показывает подтверждение «Паспорт Ники — скан открыт» | остаётся на экране | — | — |
 | `docs` | Чеки поездки | элемент экрана | показывает подтверждение «Чеки поездки открыт» | остаётся на экране | — | — |
-| `pack` | Назад | кнопка «назад» | возвращает к родительскому экрану | Поездки (trips) | — | — |
-| `pack` | Добавить вещь | элемент экрана | показывает подтверждение «Новая вещь в списке» | остаётся на экране | — | — |
-| `pack` | Взять: Термосы × 2 | элемент экрана | показывает подтверждение «Термосы теперь на вас» | остаётся на экране | — | — |
 | `expenses` | Назад | кнопка «назад» | возвращает к родительскому экрану | Поездки (trips) | — | — |
 | `expenses` | Добавить трату | элемент экрана | открывает лист действий: Снять чек · Вручную=Новая трата: сумма, кто платил, на кого | Камера (camera) | — | — |
 | `expenses` | Рассчитаться: Лене | элемент экрана | показывает подтверждение «Отмечено: вы вернули Лене 1 240 ₽» | остаётся на экране | — | — |
-| `expenses` | Напомнить: Марат | элемент экрана | показывает подтверждение «Марат получит напоминание в личном чате» | остаётся на экране | — | — |
-| `expenses` | Напомнить: Света | элемент экрана | показывает подтверждение «Света получит напоминание в личном чате» | остаётся на экране | — | — |
 | `invite` | Назад | кнопка «назад» | возвращает к родительскому экрану | Сведения о поездке (tripinfo) | — | — |
 | `invite` | Отправить в Сообщения | элемент экрана | открывает экран | Сообщения iOS (sms) | — | — |
 | `invite` | Скопировать ссылку | элемент экрана | показывает подтверждение «Ссылка скопирована» | остаётся на экране | — | — |

diff --git a/platform/concepts/sbor/docs/03-design-system.md b/platform/concepts/sbor/docs/03-design-system.md
@@ -29,7 +29,7 @@
 ## Компоненты ядра
 
 <!-- @generated:kernel-components -->
-Экраны собраны из компонентов `kernel/components.mjs`: `row` ×85, `section` ×71, `avatar` ×52, `list` ×37, `leadIcon` ×37, `cell` ×33, `bubble` ×27, `nav` ×15, `iconButton` ×12, `button` ×11, `group` ×10, `day` ×9, `dialog` ×9, `actions` ×8, `denied` ×5, `tabBar` ×5, `chatNav` ×5, `chat` ×5, `segments` ×4, `largeTitle` ×4, `composer` ×4, `search` ×3, `hue` ×3, `textButton` ×2, `voice` ×2, `callView` ×1, `chips` ×1, `usersStack` ×1, `miniInfo` ×1, `top` ×1.
+Экраны собраны из компонентов `kernel/components.mjs`: `row` ×77, `section` ×66, `avatar` ×51, `list` ×33, `cell` ×32, `leadIcon` ×30, `bubble` ×27, `nav` ×14, `button` ×11, `iconButton` ×11, `group` ×10, `day` ×9, `dialog` ×9, `actions` ×8, `denied` ×5, `tabBar` ×5, `chatNav` ×5, `chat` ×5, `largeTitle` ×4, `composer` ×4, `segments` ×3, `search` ×3, `hue` ×3, `textButton` ×2, `voice` ×2, `callView` ×1, `chips` ×1, `usersStack` ×1, `miniInfo` ×1, `top` ×1.
 <!-- @end -->
 
 ## Доменные компоненты
